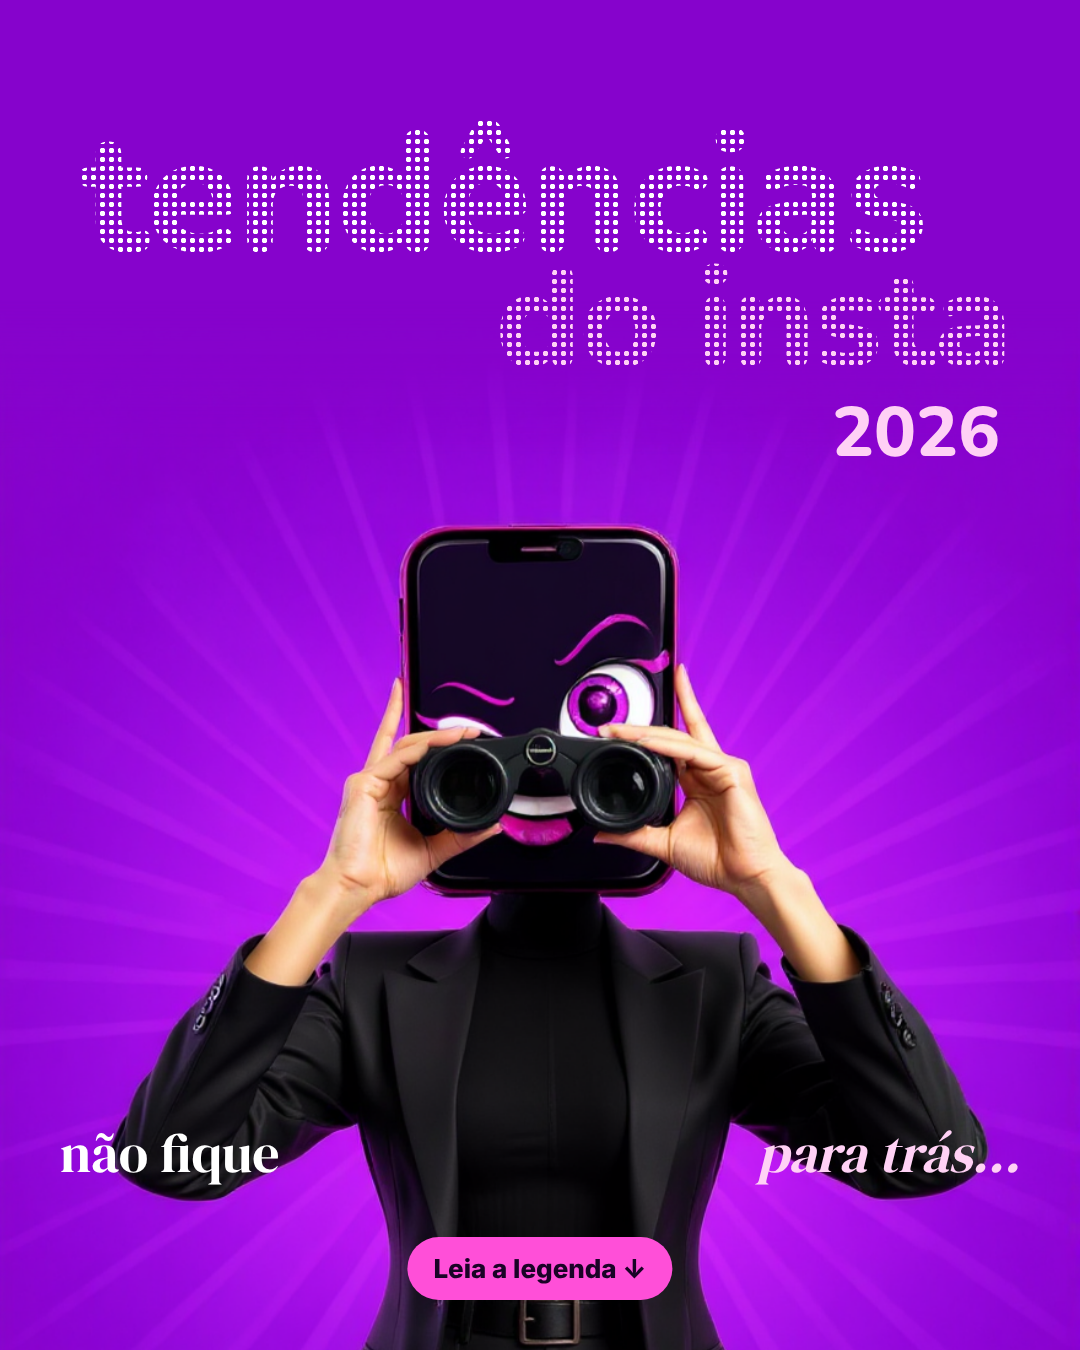
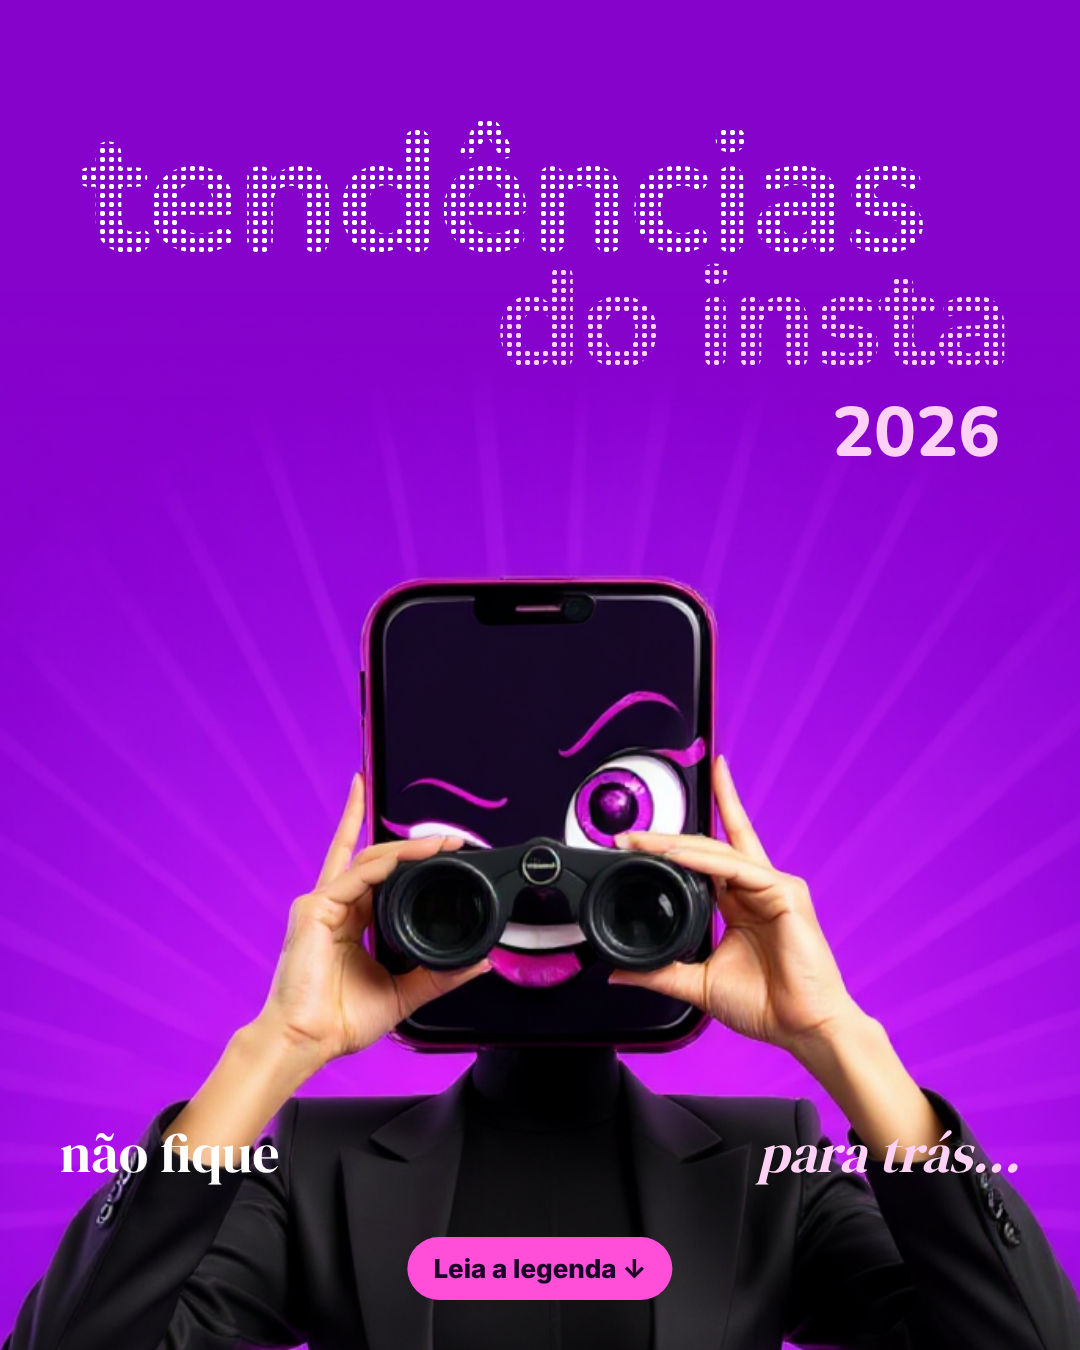
Feed estático: 16 e 20 aprovados (mascote maior na 16)
Claude-Session: https://claude.ai/code/session_017mkQW4f9RfZB1iSbiGkvms

Changed region(s): [[0.0, 0.3733, 1.0, 1.0], [0.5806, 0.9644, 0.6111, 1.0]]

diff --git a/banco/tpl-estatico/layout-16.html b/banco/tpl-estatico/layout-16.html
@@ -19,6 +19,6 @@ body{margin:0}#s{width:1080px;height:1350px;position:relative;overflow:hidden}
 .l{position:absolute;left:60px;bottom:160px;font:400 54px D;color:#fff}
 .r{position:absolute;right:60px;bottom:160px;font:400 54px D;font-style:italic;color:#ffd1f5}
 .cta{left:50%;transform:translateX(-50%);bottom:50px;font-size:26px;background:#ff4fd8;color:#1a0326}
-</style></head><body><div id=s><img src="c16b.png" style="position:absolute;left:0;top:300px;width:1080px;-webkit-mask-image:linear-gradient(transparent,#000 160px)">
+</style></head><body><div id=s><img src="c16b.png" style="position:absolute;left:-150px;top:290px;width:1380px;-webkit-mask-image:linear-gradient(transparent,#000 160px)">
 <div class="t1 dot">tendências</div><div class="t2 dot">do insta</div><div class=t3>2026</div>
 <div class=l>não fique</div><div class=r>para trás...</div><div class=cta>Leia a legenda ↓</div></div></body></html>

diff --git a/conhecimento/agentes/designer/22-feed-estatico-quebra-de-padrao.md b/conhecimento/agentes/designer/22-feed-estatico-quebra-de-padrao.md
@@ -81,9 +81,9 @@ Arte final, referência e layout em `banco/tpl-estatico/` (falta virar template 
 - **14 · Palavra gigante + mascote** (`aprovado-14-palavra-gigante-central.png`): fundo #ECEBEA; palavra gigante Anton 470px preta, topo 150px; mascote recortado NA FRENTE da palavra, entrando pela parte de baixo dela (cabeça nunca atrás do texto) e cortado pela borda de baixo, na MESMA pose da referência (gerada com kontext/max/multi [referência, mascote]); palavra manuscrita Caveat 700 190px na cor da marca, -9°, com sombra dura preta; subtítulo 30px caixa alta à direita na altura do ombro (não desce com o mascote); botão "Leia a legenda ↓" na cor da marca, canto de baixo à direita. Sem microtextos.
 - **15 · Escala absurda** (`aprovado-15-escala-absurda-spy.png`): a cena é a referência editada (pessoa → mascote, objeto na cor da marca, sem textos); título Montserrat 900 250px no topo; o texto de apoio fica EMBAIXO, logo acima do botão (primeiro o título e a arte, depois a mensagem); botão preto "Leia a legenda ↓" centralizado.
 
-## Referências 16 a 20 (18/11/2026) · 17, 18 e 19 aprovadas; 16 e 20 em ajuste final
+## Referências 16 a 20 (18/11/2026) · TODAS aprovadas
 Arquivos em `banco/tpl-estatico/` (`ref-N`, `layout-N.html`, `teste-N.png`).
-- **16 · Binóculo** (Seguidores em Alta): fundo da COR DA MARCA, claro e limpo como o vermelho da referência (roxo médio, nada de quase preto); título em letra pontilhada branca + rosa claro; "não fique / para trás..." nas laterais da cintura; binóculo colado na tela-rosto; botão centralizado. Mascote sem pescoço humano.
+- **16 · Binóculo** (Seguidores em Alta): fundo da COR DA MARCA, claro e limpo como o vermelho da referência (roxo médio, nada de quase preto); mascote GRANDE, a cabeça logo abaixo do título e o corpo cortado na cintura pela borda; título em letra pontilhada branca + rosa claro; "não fique / para trás..." nas laterais da cintura; binóculo colado na tela-rosto; botão centralizado. Mascote sem pescoço humano.
 - **17 · Caindo** (Marketing Raiz): P&B, fundo cinza papel; texto cinza em 2 blocos (alto à esquerda, baixo à direita); mascote grande no meio, sem cobrir as palavras (texto por cima, e longe das partes escuras para não sumir); botão centralizado.
 - **18 · Conheça** (007 Spyhacker): fundo branco, título serifado grande com ponto na cor da marca, logo acima da cabeça; mascote sentado no sofá de couro; botão centralizado.
 - **19 · Produto na mão** (Vivendo de Bet): céu azul, "Monte sua banca / Certa (serifa itálica gigante) / com (manuscrito)"; mascote estendendo o objeto da marca para a câmera; sem caixa extra; botão centralizado.
